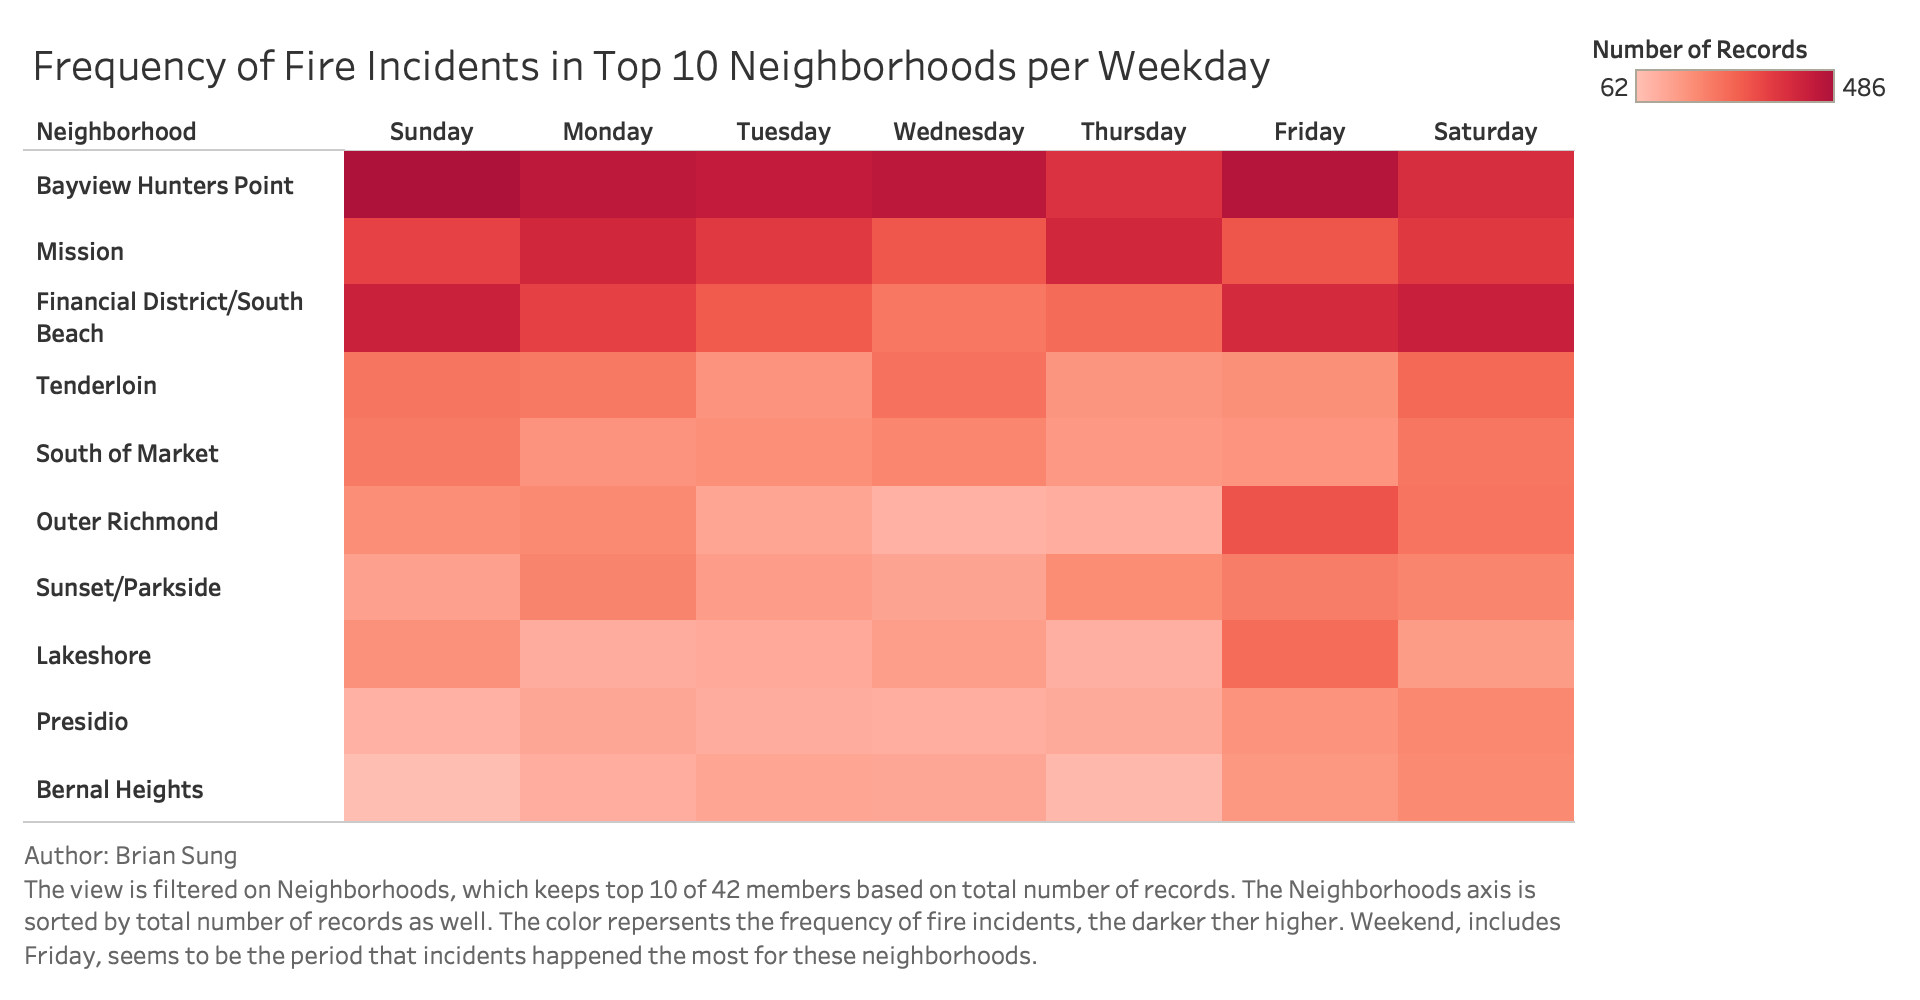
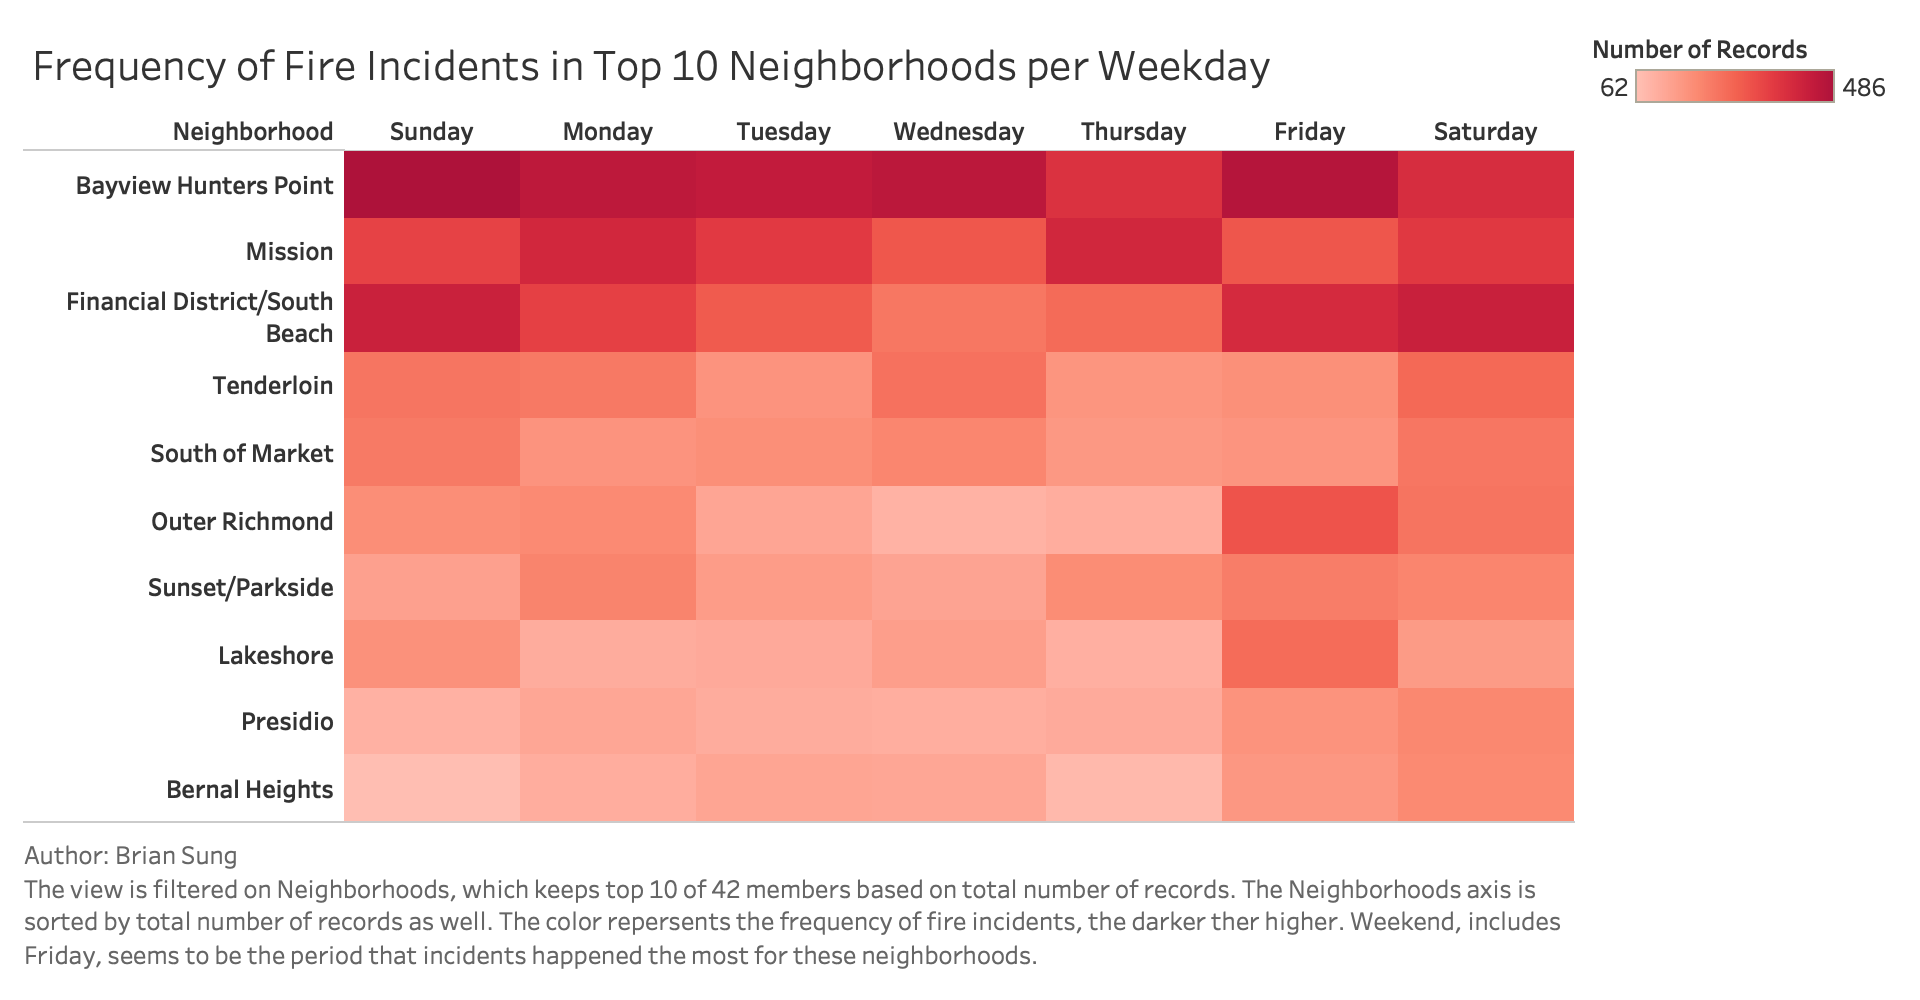
Edited Brian's Heatmap Axises

diff --git a/bvis.js b/bvis.js
@@ -1,5 +1,3 @@
-// vis_b1
-
 const weekday = [
   "Sunday",
   "Monday",
@@ -62,97 +60,69 @@ getTop = function(list, num) {
   return top;
 }
 
+neighborhoodFormatter = function(d) {
+  let length = d.length;
+
+  if (length > 25) {
+    let label = d3.select(this);
+    label.text("");
+    let text1 = d.substr(0, 24);
+    let text2 = d.substr(25);
+
+    let firstLine = label.append("tspan").text(text1);
+    let secondLine = label.append("tspan").text(text2);
+
+    firstLine.attr("x", "-6");
+    firstLine.attr("y", "-0.5em");
+    secondLine.attr("x", "-6");
+    secondLine.attr("dy", "1em");
+  }
+}
+
 heatmap = function(map, top) {
-  let margin = {
+  const margin = {
     top: 60,
     right: 250,
     bottom: 80,
-    left: 20
+    left: 60
   };
 
-  const svg = d3.select("#vis");
+  const svg = d3.select("#vis_b1");
   const bounds = svg.node().getBoundingClientRect();
   const plotWidth = bounds.width - margin.right - margin.left;
   const plotHeight = bounds.height - margin.top - margin.bottom;
 
+  // color encoding range
+  let min = map[top[top.length - 1]]["total"] - 30;
+  let max = map[top[0]]["total"] + 30;
+  let mid = (min + max / 2);
+  let range = [min, mid, max];
+
+  // create x, y, color scales
+  let x = d3.scaleBand().domain(weekday).range([0, plotWidth]);
+  let y = d3.scaleBand().domain(top).range([0, plotHeight]);
+  let color = d3.scaleSequential(d3.interpolateRed).domain(range);
+
+  //  create plot
   let plot = svg.append("g");
-  plot.attr("id", "plot");
+  plot.attr("id", "plot1");
   plot.attr("transform", translate(margin.left, margin.top));
 
-  let x = d3.scalePoint().range([0, plotWidth]).padding(0.18);
-  let y = {};
+  // create x and y  axis
+  let xAxis = d3.axisTop(x).tickPadding(0);
+  let yAxis = d3.axisLeft(y).tickPadding(0);
 
-  let dimensions = d3.keys(data[0]).filter(function(d) {
-    if (d == "region" || d == "tier" || d == "par_rank" || d == "k_rank") {
-      y[d] = d3.scaleLinear()
-          .domain(d3.extent(data, function(p) { return +p[d]; }))
-          .range([plotHeight, 0]);
+  let xGroup = plot.append("g").attr("id", "x-axis-1");
+  xGroup.call(xAxis);
+  xGroup.attr("transform", translate(margin.left, 0));
+  xGroup.attr("class", "axis");
 
-      return true;
-    }
-
-    return false;
-  }).sort(sortAxis);
-
-  x.domain(dimensions);
-
-  let minimum = getMin(x, dimensions) - margin.left;
-
-  // draw lines and colors
-  let background = plot.append("g")
-    .attr("class", "line")
-    .selectAll("path")
-    .data(data)
-    .enter().append("path")
-    .attr("d", path)
-    .attr("stroke", function(d) { return colors[d["tier_name"]]; });
-
-  // draw axises
-  let dimension = plot.selectAll(".dimension")
-    .data(dimensions)
-    .enter().append("g")
-    .attr("class", "dimension")
-    .attr("transform", function(d) { return translate(x(d) - minimum, 0); });
-
-  // axis titles
-  dimension.append("g")
-    .attr("class", "axis")
-    .each(function(d) { d3.select(this).call(d3.axisLeft().scale(y[d])); })
-    .append("text")
-    .style("text-anchor", "middle")
-    .attr("y", -10)
-    .text(function(d) { return d; });
-
-  function path(d) {
-    return d3.line()(dimensions.map(function(p) { return [x(p) - minimum, y[p](+d[p])]; }));
-  }
-
-  // color encoding for legend
-  let color_map = get_colors(tier_map);
-  let colorScale = d3.scaleOrdinal().range(color_map).domain(tier_map);
-
-  // legend
-  let legend = svg.selectAll(".legend")
-		.data(colorScale.domain())
-		.enter()
-    .append("g")
-		.attr("class", "legend")
-		.attr("transform", function(d, i) {
-      return translate(plotWidth, 15 + i * 20);
-    });
-
-	legend.append("rect")
-		.attr("width", 18)
-		.attr("height", 18)
-		.style("fill", colorScale);
-
-	legend.append("text")
-    .attr("class", "label")
-		.attr("x", 23)
-		.attr("y", 12)
-		.style("text-anchor", "start")
-		.text(function(d, i) { return (i + 1) + " " + d; });
-
+  let yGroup = plot.append("g").attr("id", "y-axis-1");
+  yGroup.call(yAxis);
+  yGroup.attr("transform", translate(margin.left, 0));
+  yGroup.attr("class", "axis");
+  yGroup.selectAll(".tick text").each(neighborhoodFormatter);
+/*
   // title
   svg.append("text")
     .attr("text-anchor", "start")
@@ -188,6 +158,7 @@ heatmap = function(map, top) {
     .attr("dy", "3em")
     .attr("transform", translate(-5, plotHeight + 30))
     .text("school. However, this could be a result of fewer years of experience. Furthermore, we can see tier 1 schools are mostly located in West (more solid line).");
+    */
 }
 
 d3.csv(
@@ -197,5 +168,5 @@ d3.csv(
   let map = countDay(d);
   let list  = sortList(map);
   let top = getTop(list, 10);
-  //heatmap(map, top);
+  heatmap(map, top);
 })
